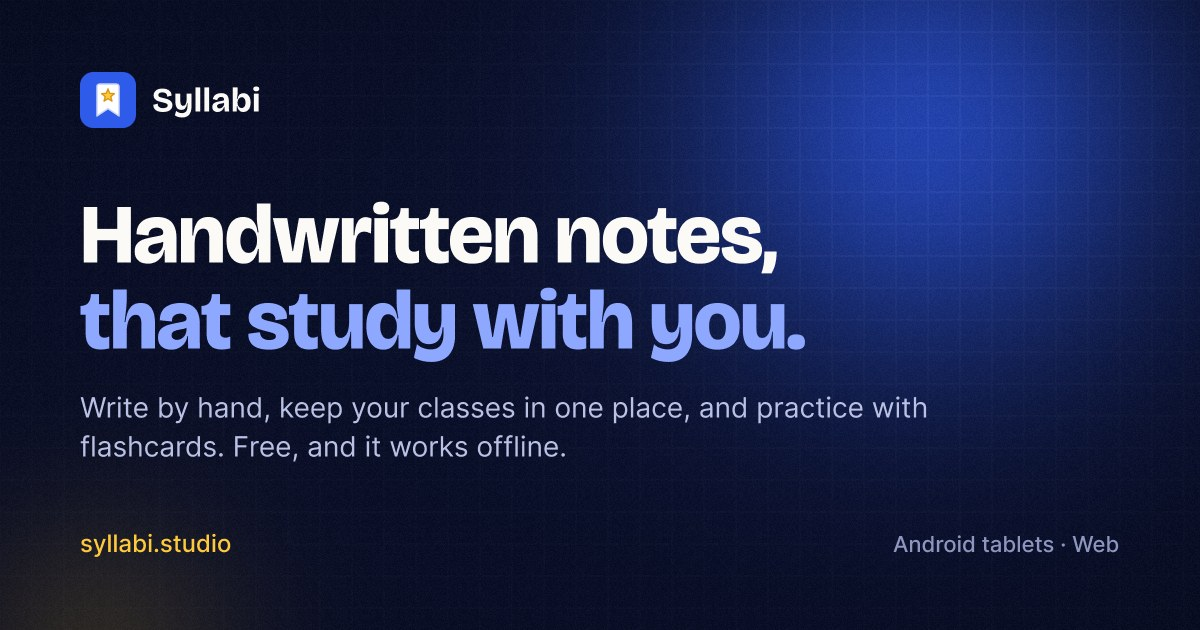
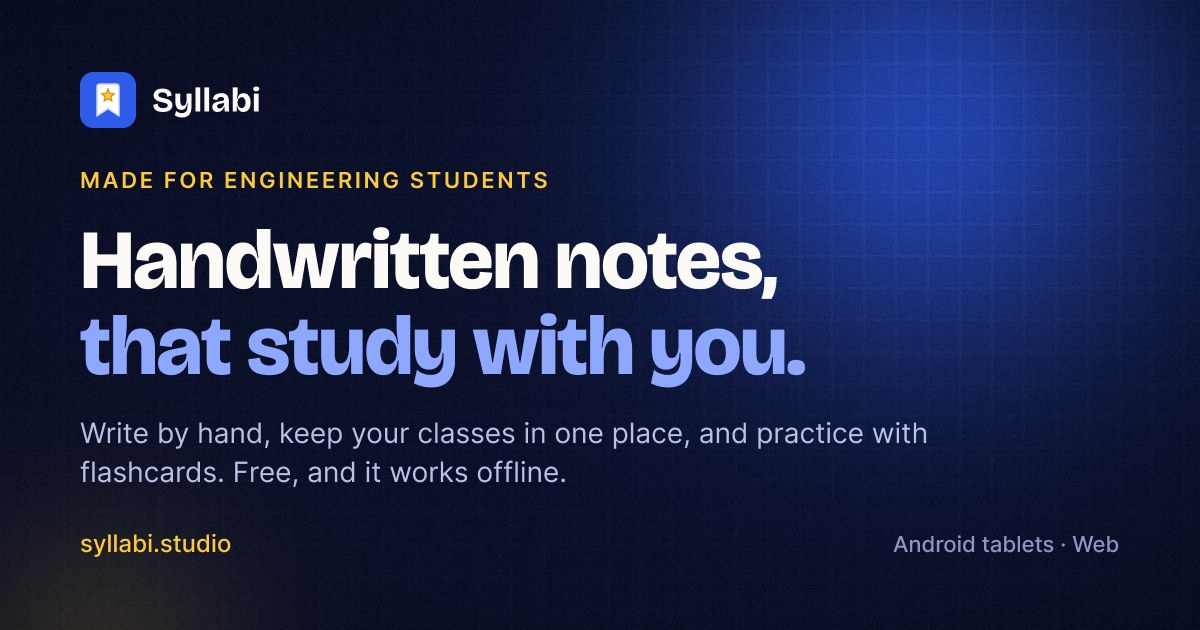
Site: link preview says it's made for engineering students
Claude-Session: https://claude.ai/code/session_01DjfqJriMpSuqWerwbCCLfr

Changed region(s): [[0.0617, 0.2714, 0.7708, 0.7841]]

diff --git a/apps/site/sections/Seo.tsx b/apps/site/sections/Seo.tsx
@@ -35,7 +35,7 @@ export function Seo({
       <meta content={image} property='og:image' />
       <meta content='1200' property='og:image:width' />
       <meta content='630' property='og:image:height' />
-      <meta content='Syllabi: handwritten notes that study with you' property='og:image:alt' />
+      <meta content='Syllabi, made for engineering students: handwritten notes that study with you' property='og:image:alt' />
       <meta content='summary_large_image' name='twitter:card' />
       <meta content={title} name='twitter:title' />
       <meta content={description} name='twitter:description' />
